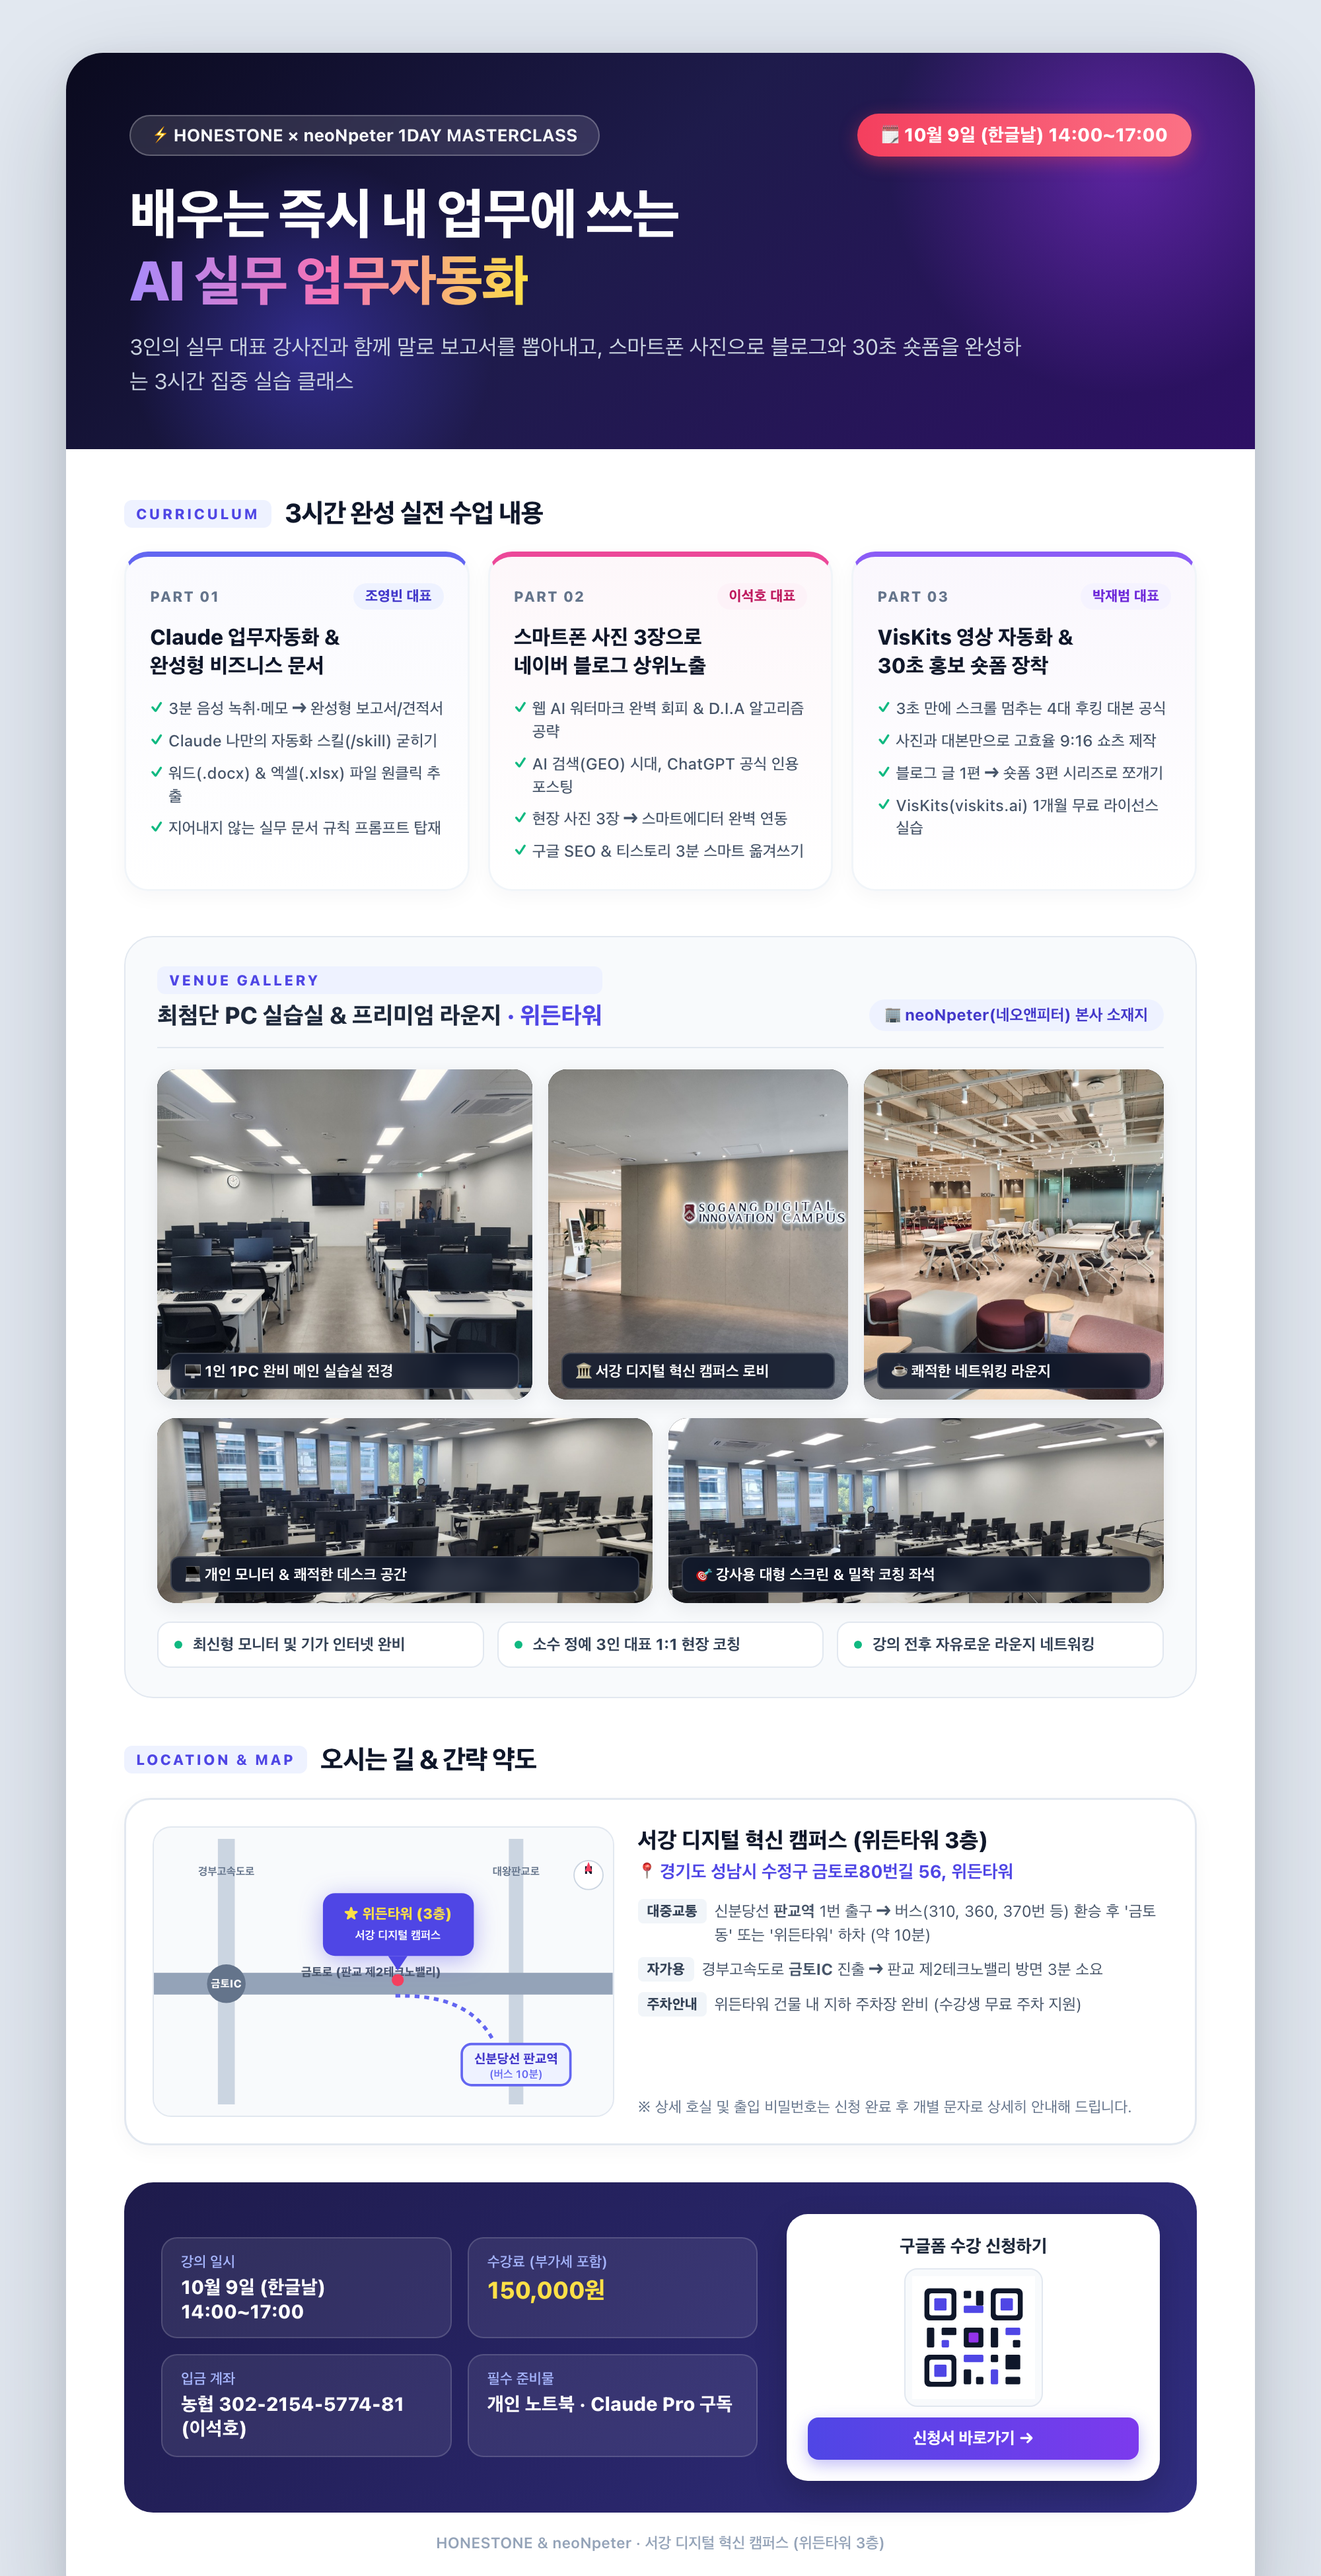
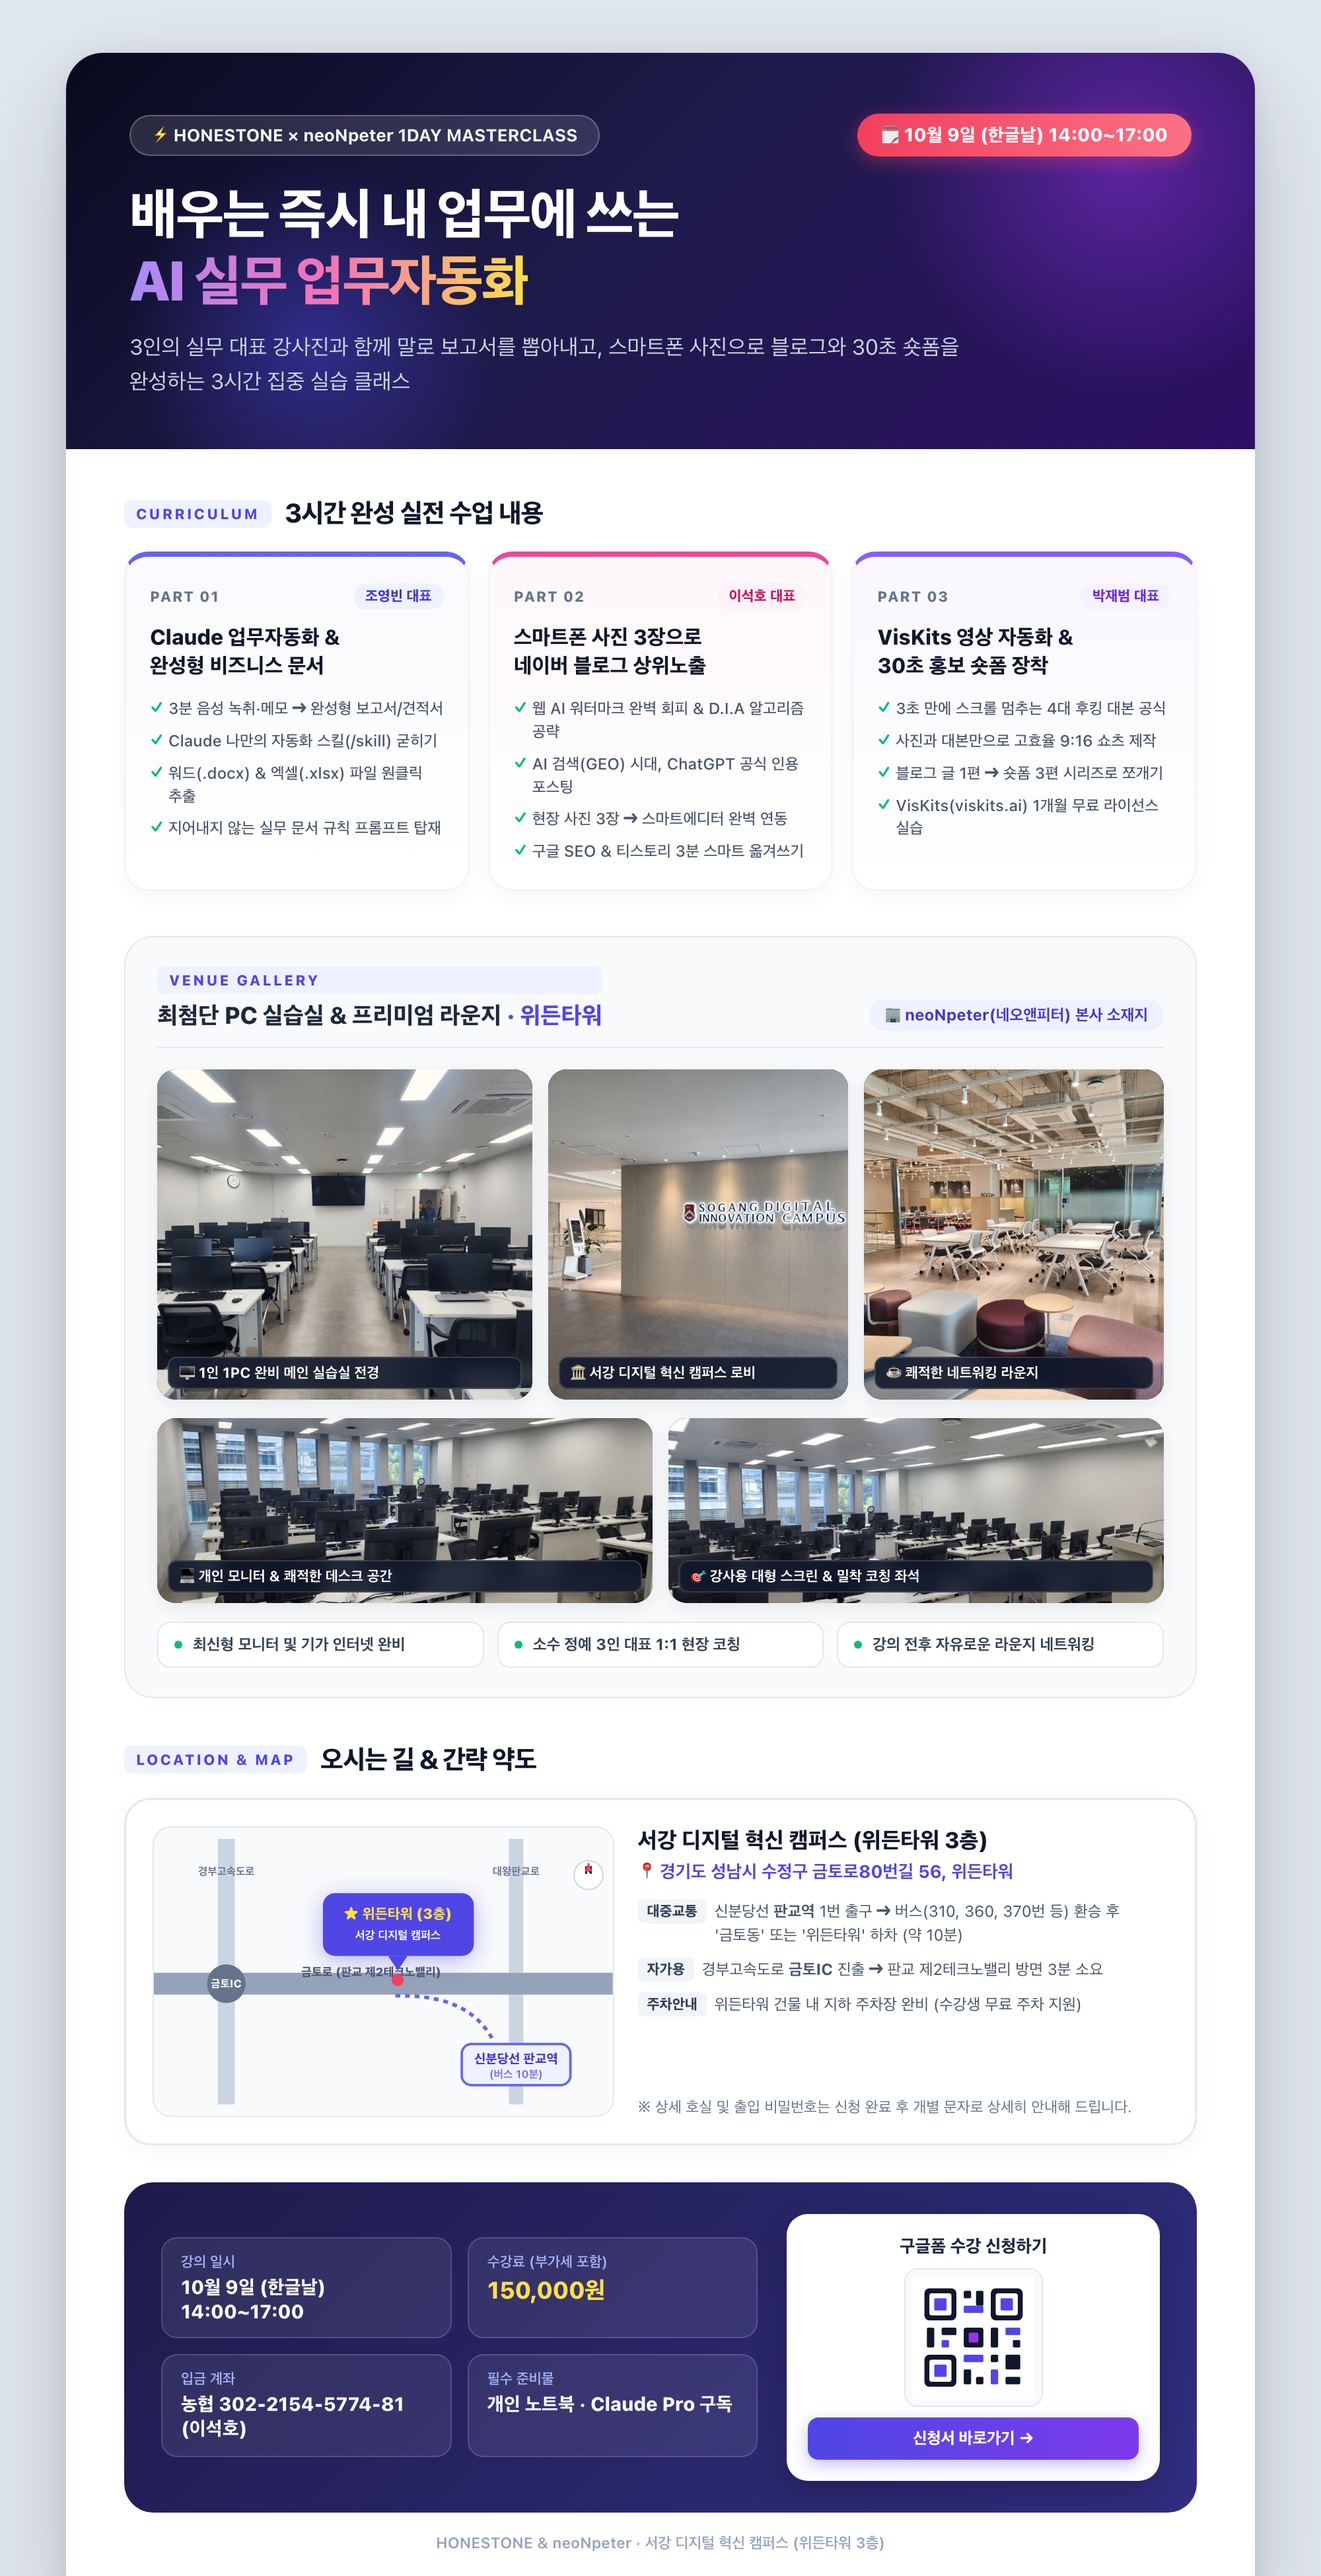
fix: 10월 9일 포스터 모바일 뷰포트 반응형 UI 및 줄바꿈 최적화

diff --git a/public/posters/1009-weeden-poster.html b/public/posters/1009-weeden-poster.html
@@ -21,7 +21,13 @@
       --border-color: #E2E8F0;
     }
 
-    * { margin: 0; padding: 0; box-sizing: border-box; }
+    * { 
+      margin: 0; 
+      padding: 0; 
+      box-sizing: border-box; 
+      word-break: keep-all; 
+      overflow-wrap: break-word; 
+    }
 
     body {
       font-family: 'Pretendard', -apple-system, BlinkMacSystemFont, system-ui, Roboto, sans-serif;
@@ -37,7 +43,8 @@
 
     /* 포스터 전체 프레임 (고해상도 인쇄 & 모바일 웹 최적화) */
     .poster-container {
-      width: 900px;
+      width: 100%;
+      max-width: 900px;
       background: #FFFFFF;
       border-radius: 28px;
       overflow: hidden;
@@ -325,19 +332,17 @@
     .photo-caption {
       position: absolute;
       bottom: 8px;
-      left: 10px;
-      right: 10px;
-      background: rgba(15, 23, 42, 0.85);
+      left: 8px;
+      right: 8px;
+      background: rgba(15, 23, 42, 0.88);
       backdrop-filter: blur(6px);
       color: #FFFFFF;
-      font-size: 11.5px;
+      font-size: 11px;
       font-weight: 700;
-      padding: 5px 10px;
+      padding: 4px 8px;
       border-radius: 7px;
       border: 1px solid rgba(255, 255, 255, 0.15);
-      white-space: nowrap;
-      overflow: hidden;
-      text-overflow: ellipsis;
+      line-height: 1.3;
     }
 
     .gallery-sub-grid {
@@ -544,38 +549,126 @@
       box-shadow: 0 4px 12px rgba(79, 70, 229, 0.35);
     }
 
-    .benefit-strip {
-      background: linear-gradient(90deg, #FDF4FF, #F5F3FF);
-      border: 1px dashed #D8B4FE;
-      border-radius: 12px;
-      padding: 11px 16px;
-      margin-top: 18px;
-      display: flex;
-      align-items: center;
-      justify-content: space-between;
-    }
-
-    .benefit-strip span {
-      font-size: 12.5px;
-      font-weight: 700;
-      color: #7E22CE;
-    }
-
-    .benefit-strip .tag {
-      background: #9333EA;
-      color: #FFFFFF;
-      font-size: 10.5px;
-      font-weight: 800;
-      padding: 2px 8px;
-      border-radius: 100px;
-    }
-
     .poster-foot-brand {
       text-align: center;
       margin-top: 16px;
       font-size: 11.5px;
       font-weight: 600;
       color: #94A3B8;
+    }
+
+    /* ─── 모바일 / 태블릿 반응형 스타일 (화면 깨짐 완벽 방지) ─── */
+    @media screen and (max-width: 860px) {
+      body {
+        padding: 0;
+        background: #F8FAFC;
+      }
+      .poster-container {
+        border-radius: 0;
+        box-shadow: none;
+        max-width: 100%;
+      }
+      .hero-banner {
+        padding: 36px 20px 28px;
+      }
+      .badge-bar {
+        flex-direction: column;
+        align-items: flex-start;
+        gap: 8px;
+      }
+      .hero-title {
+        font-size: 30px;
+        line-height: 1.25;
+        letter-spacing: -0.8px;
+      }
+      .hero-subtitle {
+        font-size: 14.5px;
+        line-height: 1.55;
+      }
+      .poster-body {
+        padding: 24px 16px 36px;
+      }
+      .curriculum-grid {
+        grid-template-columns: 1fr;
+        gap: 14px;
+      }
+      .curr-heading {
+        min-height: auto;
+      }
+      .venue-section {
+        padding: 18px 14px;
+      }
+      .venue-header-bar {
+        flex-direction: column;
+        align-items: flex-start;
+        gap: 8px;
+      }
+      .gallery-grid {
+        grid-template-columns: 1fr;
+        height: auto;
+        gap: 10px;
+      }
+      .gallery-grid .photo-box {
+        height: 190px;
+      }
+      .gallery-sub-grid {
+        grid-template-columns: 1fr 1fr;
+        height: 130px;
+        gap: 10px;
+      }
+      .venue-spec-bar {
+        grid-template-columns: 1fr;
+        gap: 8px;
+      }
+      .location-box {
+        grid-template-columns: 1fr;
+        padding: 16px;
+        gap: 16px;
+      }
+      .map-graphic-wrap {
+        height: 200px;
+        width: 100%;
+      }
+      .footer-panel {
+        grid-template-columns: 1fr;
+        padding: 20px 16px;
+        gap: 18px;
+      }
+      .summary-grid {
+        grid-template-columns: 1fr;
+        gap: 10px;
+      }
+      .summary-card {
+        padding: 12px 14px;
+      }
+      .qr-apply-card {
+        padding: 18px 16px;
+      }
+    }
+
+    @media screen and (max-width: 480px) {
+      .hero-banner {
+        padding: 30px 16px 24px;
+      }
+      .hero-title {
+        font-size: 26px;
+      }
+      .brand-pill, .date-badge {
+        font-size: 12px;
+        padding: 5px 12px;
+      }
+      .gallery-sub-grid {
+        grid-template-columns: 1fr;
+        height: auto;
+        gap: 10px;
+      }
+      .gallery-sub-grid .photo-box {
+        height: 170px;
+      }
+      .loc-guide-list li {
+        flex-direction: column;
+        gap: 3px;
+      }
     }
 
     @media print {
